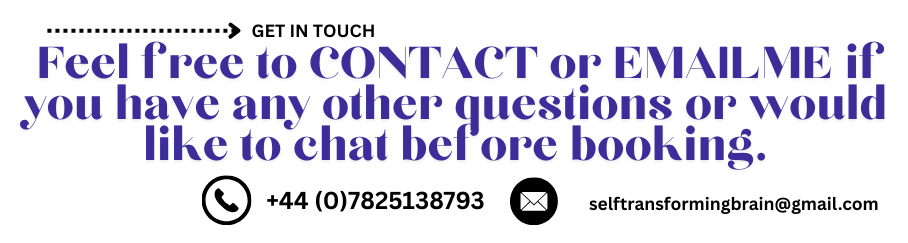
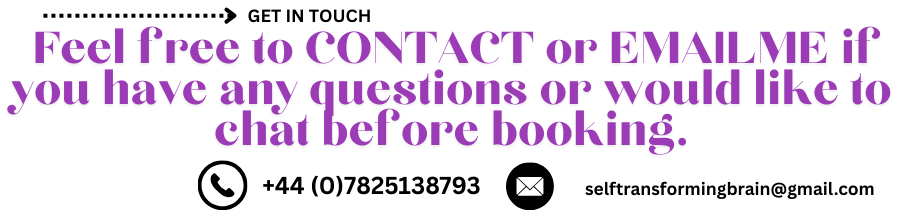
Final Rev 1

Changed region(s): [[0.0, 0.0276, 0.9933, 0.7189], [0.2173, 0.7189, 0.6208, 0.9677], [0.6519, 0.8018, 0.9933, 0.9124]]

diff --git a/assets/css/main.css b/assets/css/main.css
@@ -4508,7 +4508,7 @@ Contact Style
 }
 
 .contact p.one {
-  font-size: 35px;
+  font-size: 45px;
   line-height: 1.3;
   font-weight: 600;
   color: #000000;
@@ -4519,7 +4519,7 @@ Contact Style
 }
 
 .contact p.two {
-  font-size: 35px;
+  font-size: 36px;
   line-height: 1.3;
   font-weight: 600;
   color: #000000;
@@ -4527,7 +4527,7 @@ Contact Style
   padding: 5px 0px 10px 0px;
   text-align: left;
   font-family: Calibri, sans-serif;
-  margin-left: 30%;
+  margin-left: 28%;
 }
 
 .contact .highlighted-text1 {
@@ -4739,18 +4739,16 @@ Speaking Style
 
 .speaking .header img {
   display: block;
-  width: 80%;
+  width: 100%;
   height: auto;
-  margin-right: auto;
-  margin-left: auto;
 }
 
 .speaking .buttonone .btn-primary {
   display: inline-block;
-  padding: 5px 30px;
+  padding: 3px 20px;
   background-color: #6e1247;
   color: #ffffff;
-  font-size: 22px;
+  font-size: 18px;
   font-weight: bold;
   text-transform: uppercase;
   border-radius: 25px;

diff --git a/pages/faqs.php b/pages/faqs.php
@@ -89,7 +89,7 @@
                                                                 using
                                                                 personalized recording and positive suggestions.</li>
                                                         </ul>
-                                                        <p>Find Out More Click <a href="#">HERE</a>.</p>
+                                                        <p>Find Out More Click <a href="how_rtt.php">HERE</a>.</p>
                                                     </div>
                                                 </div>
                                             </div>
@@ -122,7 +122,7 @@
                                                             <li>⬥Money blocks or Abundance mindset</li>
                                                         </ul>
                                                         <p>See more on all the types of issues I work with, Click <a
-                                                                href="#">HERE</a>.</p>
+                                                                href="index.php">HERE</a>.</p>
                                                     </div>
                                                 </div>
                                             </div>
@@ -186,7 +186,7 @@
                                                             session.
                                                         </p>
                                                         <p>For more information on how our RTT PROCESS WORKS, Click <a
-                                                                href="#">HERE</a>.</p>
+                                                                href="how_rtt.php">HERE</a>.</p>
                                                     </div>
                                                 </div>
                                             </div>
@@ -212,7 +212,7 @@
                                                             life. For this reason, I offer discounted packages on my
                                                             PRICING
                                                             & PACKAGES PAGE. Please visit it by clicking <a
-                                                                href="#">HERE</a>.</p>
+                                                                href="pricing.php">HERE</a>.</p>
                                                     </div>
                                                 </div>
                                             </div>
@@ -596,7 +596,7 @@
                                                         is a free consultation to discuss your needs and determine what
                                                         is the best package/approach for you. It's best to inquire
                                                         directly with the coach for their pricing or checking the
-                                                        PRICING &PACKAGING PAGE, Click <a href="#">HERE</a>.</p>
+                                                        PRICING &PACKAGING PAGE, Click <a href="pricing.php">HERE</a>.</p>
                                                 </div>
                                             </div>
                                         </div>
@@ -695,7 +695,7 @@
                                                         There is a free consultation to discuss your needs and determine
                                                         what is the best package/approach for you. It's best to inquire
                                                         directly with the coach for their pricing or checking the
-                                                        PRICING &PACKAGING PAGE, Click <a href="#">HERE</a>.</p>
+                                                        PRICING &PACKAGING PAGE, Click <a href="pricing.php">HERE</a>.</p>
                                                 </div>
                                             </div>
                                         </div>
@@ -734,7 +734,7 @@
                                                         is a free consultation to discuss your needs and determine what
                                                         is the best package/approach for you. It's best to inquire
                                                         directly with the coach for their pricing or checking the
-                                                        PRICING &PACKAGING PAGE, Click <a href="#">HERE</a>.</p>
+                                                        PRICING &PACKAGING PAGE, Click <a href="pricing.php">HERE</a>.</p>
                                                 </div>
                                             </div>
                                         </div>
@@ -745,7 +745,7 @@
 
                         <div class="col-lg-12">
                             <div class="button">
-                                <a href="#" class="btn btn-primary">WORK WITH ME</a>
+                                <a href="work.php" class="btn btn-primary">WORK WITH ME</a>
                             </div>
                         </div>
 

diff --git a/pages/speaking.php b/pages/speaking.php
@@ -17,7 +17,7 @@
             position: absolute;
             bottom: 60px;
             /* Adjust this as needed */
-            left: 53%;
+            left: 60%;
             transform: translateX(-50%);
             z-index: 10;
         }
@@ -41,7 +41,7 @@
                 <div class="container">
                     <div class="row">
 
-                        <p class="one" >
+                        <p class="one">
                             I explain brain science in a straightforward, relevant and engaging way, weaving in stories and strategies that promote peak performance, women's mental health, brain health and well-being.
                         </p>
 
@@ -53,7 +53,7 @@
                         </p>
 
                         <p class="three">
-                        <span class="highlighted-text">I bring</span> a unique blend of neuroscience, transformational coaching, and real-world business expertise to every stage and platform. Whether you're hosting a large-scale event, an intimate workshop, or an engaging media feature, I tailor each experience to inspire, educate, and empower your audience.<br><br>
+                            <span class="highlighted-text">I bring</span> a unique blend of neuroscience, transformational coaching, and real-world business expertise to every stage and platform. Whether you're hosting a large-scale event, an intimate workshop, or an engaging media feature, I tailor each experience to inspire, educate, and empower your audience.<br><br>
 
                             In addition to my scientific and coaching background, I am also a channeler for an extraterrestrial being known as <span class="highlighted-text1">OKUSAWA FROM ORION</span>, a consciousness over 100,000 years old. Through this connection, I bring through multidimensional insights that expand awareness, elevate purpose, and support deep inner transformation. This unique integration of cosmic wisdom and grounded strategy allows me to guide individuals and teams toward extraordinary breakthroughs.<br><br>
 
@@ -63,7 +63,7 @@
 
                         <p class="four">
                             Interested in elevating your mindset, unlocking peak performance, and driving change from the inside out? <span class="highlighted-text1">JOIN ME or INVITE ME</span> to lead powerful sessions in: <br><br>
-                                &#x2022; <b> Channelling With OKUSAWA From ORION Workshop <br>
+                            &#x2022; <b> Channelling With OKUSAWA From ORION Workshop <br>
                                 &#x2022; Neuroscience<br>
                                 &#x2022; Neuroentrepreneurship<br>
                                 &#x2022; Brain Coach and Emotional Intelligence<br>
@@ -80,7 +80,7 @@
 
                         <div class="button">
                             <a href="work.php" class="btn btn-primary">
-                            ENQUIRE ABOUT SPEAKING, WORKSHOPS AND PROGRAMS
+                                ENQUIRE ABOUT SPEAKING, WORKSHOPS AND PROGRAMS
                             </a>
                         </div>
 
@@ -117,7 +117,11 @@
                                 </form>
                             </div>
                         </div>
-                        
+
+                        <div class="col-lg-12">
+                           <iframe width="560" height="315" src="https://www.youtube.com/embed/g_CSsL3it9Y?si=hDaAkmreEXHOPcdi" title="YouTube video player" frameborder="0" allow="accelerometer; autoplay; clipboard-write; encrypted-media; gyroscope; picture-in-picture; web-share" referrerpolicy="strict-origin-when-cross-origin" allowfullscreen></iframe>
+                        </div>
+
                     </div>
                 </div>
             </div>

diff --git a/pages/includes/head.php b/pages/includes/head.php
@@ -8,14 +8,14 @@
 
     <!-- Bootstrap core CSS -->
     <link href="../vendor/bootstrap/css/bootstrap.min.css" rel="stylesheet">
-<link rel="icon" href="../assets/images/logo2.png">
-  <link rel="icon" type="image/x-icon" href="../assets/images/logo2.png">
+    <link rel="icon" href="../assets/images/logo2.png">
+    <link rel="icon" type="image/x-icon" href="../assets/images/logo2.png">
 
     <!-- Additional CSS Files -->
     <link rel="stylesheet" href="../assets/css/fontawesome.css">
     <link rel="stylesheet" href="../assets/css/main.css">
     <link rel="stylesheet" href="../assets/css/owl.css">
     <link rel="stylesheet" href="../assets/css/animate.css">
-    <link rel="stylesheet"href="https://unpkg.com/swiper@7/swiper-bundle.min.css"/>
-    
+    <link rel="stylesheet" href="https://unpkg.com/swiper@7/swiper-bundle.min.css" />
+
   </head>

diff --git a/pages/about_me.php b/pages/about_me.php
@@ -288,7 +288,7 @@
                             <li>Member of The British Neuroscience Association
                                 <b>(BNA)</b>
                             </li>
-                            <li>Member of International Association of Councilors and Therapists<b>(IACT)</b></li>
+                            <li>Member of International Association of Councilors and Therapists <b>(IACT)</b></li>
                             <li>Member of The International Hypnotherapy Association
                                 <b>(IHA)</b>
                             </li>
